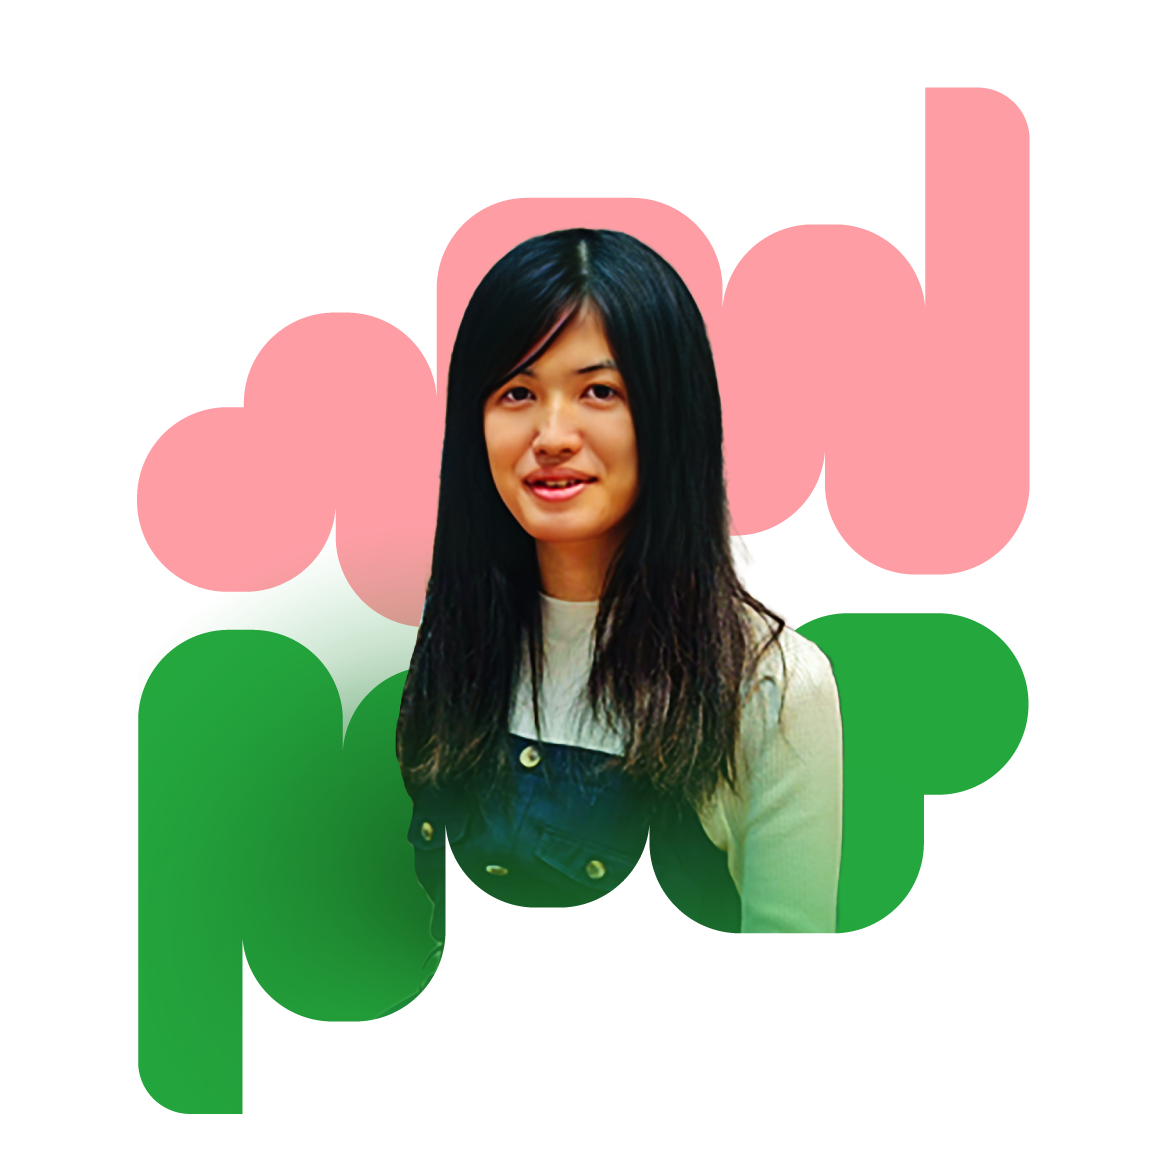
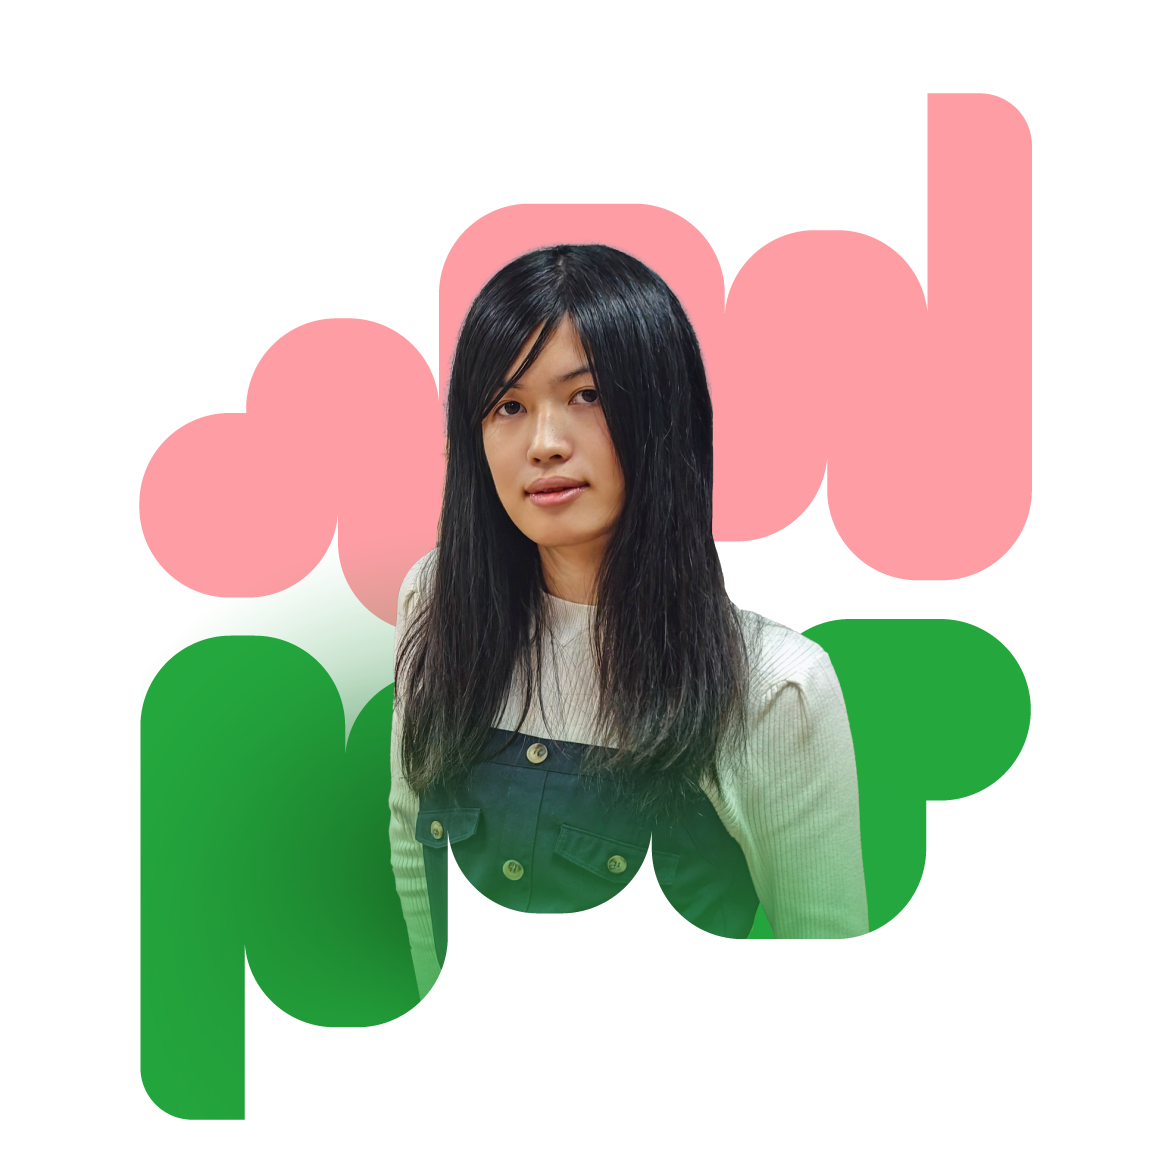
Replace images

diff --git a/src/components/sections/KeynoteSection.tsx b/src/components/sections/KeynoteSection.tsx
@@ -14,19 +14,22 @@ export default function KeynoteSection({lang, ...props}: Props) {
       </h1>
       <div className='flex flex-col lg:flex-row gap-24'>
         <div className='flex-1'>
-          <Image src='/common/keynote/keynote_1.png' alt='Keynote 2025' width={800} height={800} className='w-full max-w-96 mx-auto'/>
-          <div>
-            <div className='text-3xl font-semibold'>大塚 あみ</div>
-            <div className='font-normal mt-3'>Otsuka Ami</div>
-            <div className='text-xl font-semibold mt-5'>100日チャレンジ</div>
-            <div className='font-semibold mt-0.5'>著者</div>
+          <Image src='/common/keynote/keynote_1.png' alt='Keynote 2025 1' width={800} height={800} className='w-full max-w-96 mx-auto'/>
+          <div className='flex flex-row justify-between'>
+            <div className='flex-1'>
+              <div className='text-3xl font-semibold'>大塚 あみ</div>
+              <div className='font-normal mt-3'>Otsuka Ami</div>
+              <div className='text-xl font-semibold mt-5'>100日チャレンジ</div>
+              <div className='font-semibold mt-0.5'>著者</div>
+            </div>
+            <Image src='/common/keynote/keynote_1_1.jpg' alt='Keynote 2025 1 Book' width={283} height={360} className='h-auto w-24'/>
           </div>
           <div className='mt-11'>
             <KeynoteContent1 />
           </div>
         </div>
         <div className='flex-1'>
-          <Image src='/common/keynote/keynote_2.png' alt='Keynote 2025' width={800} height={800} className='w-full max-w-96 mx-auto'/>
+          <Image src='/common/keynote/keynote_2.png' alt='Keynote 2025 2' width={800} height={800} className='w-full max-w-96 mx-auto'/>
           <div>
             <div className='text-3xl font-semibold'>Sebastián Ramírez</div>
             <div className='font-normal mt-3'>セバスティアン・ラミレス</div>

diff --git a/src/components/sections/HeroSection.tsx b/src/components/sections/HeroSection.tsx
@@ -1,5 +1,5 @@
-import {Swiper, SwiperSlide} from 'swiper/react'
-import {Autoplay, EffectFade} from 'swiper/modules'
+import {Swiper, SwiperSlide} from 'swiper/react';
+import {Autoplay, EffectFade} from 'swiper/modules';
 import 'swiper/css'
 import 'swiper/css/effect-fade'
 import Image from "next/image";
